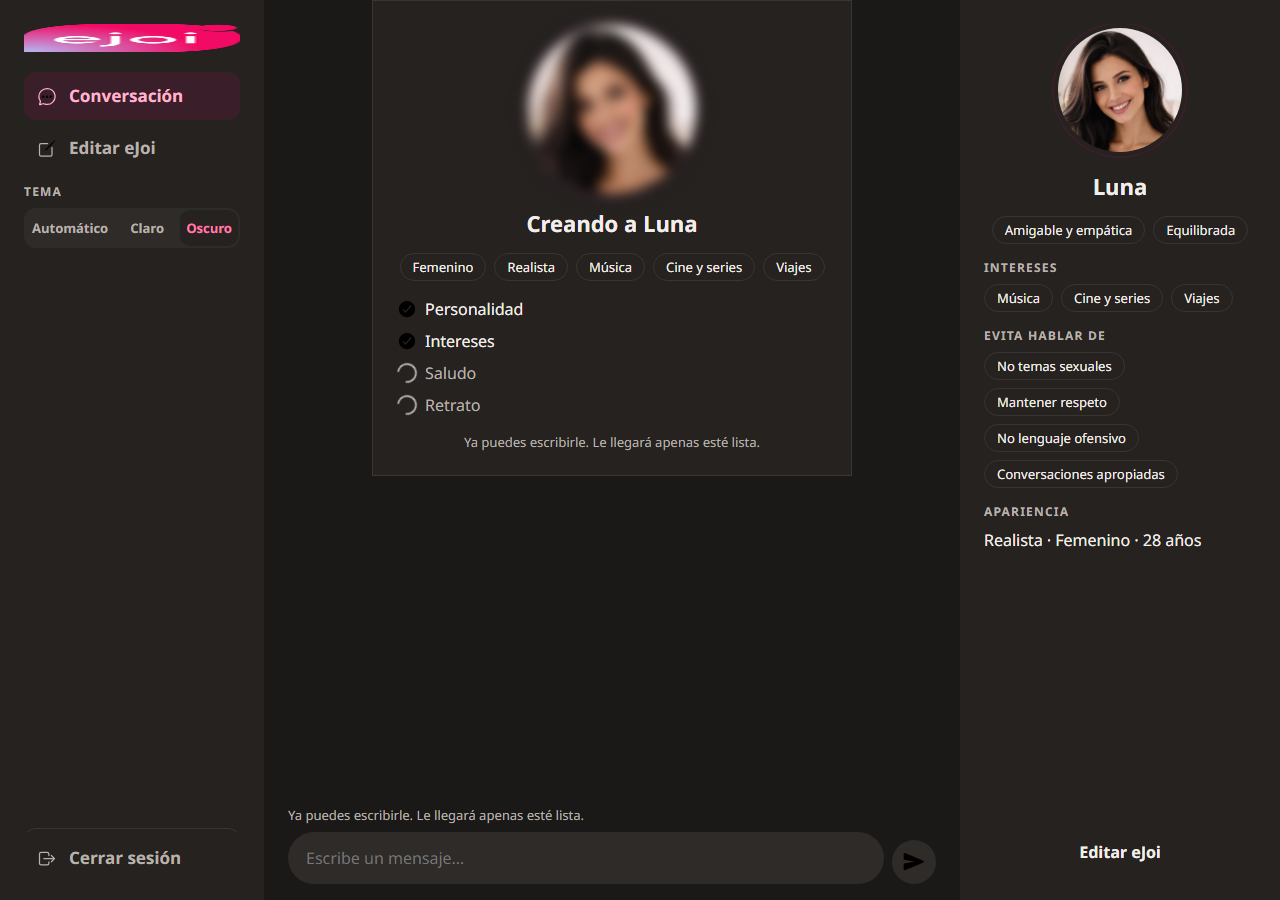
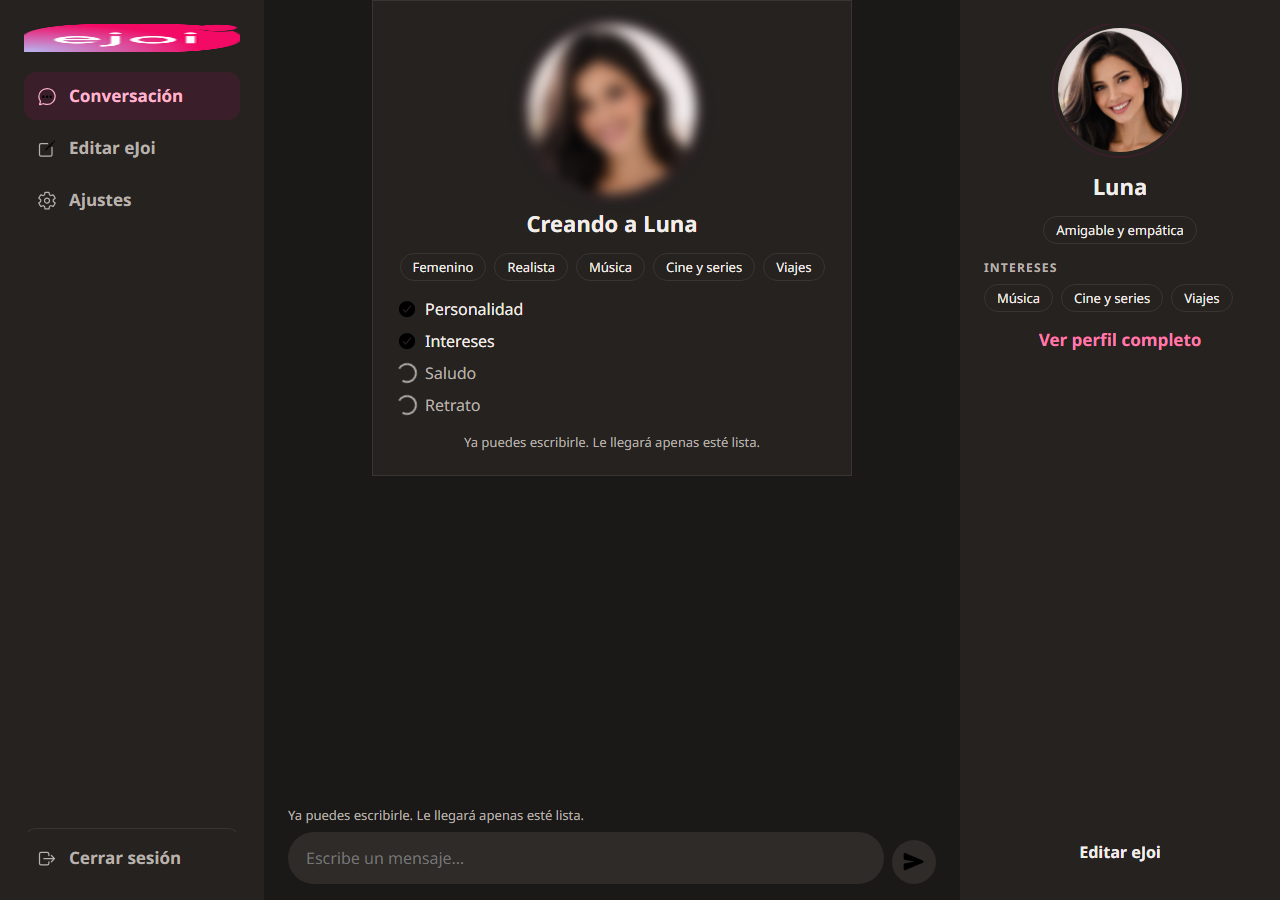
feat(web): chat con perfil resumido y ajustes en el menu (SCRUM-176)
Menú lateral con cuatro filas y tema en dialog de Ajustes; perfil con details.

Refs: SCRUM-104

diff --git a/src/features/chat/SideMenu.tsx b/src/features/chat/SideMenu.tsx
@@ -4,6 +4,7 @@ import { NavLink, useNavigate } from 'react-router';
 import { Logo } from '~/components/Logo';
 import { AppIcon } from '~/components/AppIcon';
 import { logoutWeb } from '~/features/auth/api/auth.api';
+import { useSectionDialog } from '~/features/edit/useSectionDialog';
 import { OptionGroup } from '~/layout/OptionGroup';
 import { type ThemePreference, useThemePreference } from '~/theme/theme';
 
@@ -19,6 +20,7 @@ export function SideMenu() {
   const { t } = useTranslation('web');
   const navigate = useNavigate();
   const { preference, setPreference } = useThemePreference();
+  const { dialogRef, open, close } = useSectionDialog();
 
   const logout = async () => {
     await logoutWeb();
@@ -47,34 +49,52 @@ export function SideMenu() {
         <AppIcon name="create-outline" />
         {t('menu.edit')}
       </NavLink>
-      <div className="chat-side-menu__theme">
-        <span id="chat-side-menu-theme-label" className="label chat-side-menu__theme-label">
-          {t('theme.label')}
-        </span>
-        <OptionGroup
-          mode="radio"
-          aria-labelledby="chat-side-menu-theme-label"
-          layout="inline"
-          className="seg chat-side-menu__seg"
-        >
-          {THEME_OPTIONS.map((opt) => (
-            <button
-              key={opt.id}
-              type="button"
-              role="radio"
-              className="seg__item"
-              aria-checked={preference === opt.id}
-              onClick={() => setPreference(opt.id)}
-            >
-              {t(opt.labelKey)}
-            </button>
-          ))}
-        </OptionGroup>
-      </div>
+      <button
+        type="button"
+        className="chat-side-menu__row"
+        data-testid="chat-settings-open"
+        onClick={(e) => open(e.currentTarget)}
+      >
+        <AppIcon name="settings-outline" />
+        {t('menu.settings')}
+      </button>
       <button type="button" className="chat-side-menu__row chat-side-menu__logout" onClick={() => void logout()}>
         <AppIcon name="log-out-outline" />
         {t('menu.logout')}
       </button>
+
+      <dialog ref={dialogRef} className="chat-settings-dialog" data-testid="chat-settings-dialog">
+        <h2 className="chat-settings-dialog__title">{t('menu.settings')}</h2>
+        <div className="chat-settings-dialog__body">
+          <span id="chat-settings-theme-label" className="label">
+            {t('theme.label')}
+          </span>
+          <OptionGroup
+            mode="radio"
+            aria-labelledby="chat-settings-theme-label"
+            layout="inline"
+            className="seg chat-settings-dialog__seg"
+          >
+            {THEME_OPTIONS.map((opt) => (
+              <button
+                key={opt.id}
+                type="button"
+                role="radio"
+                className="seg__item"
+                aria-checked={preference === opt.id}
+                onClick={() => setPreference(opt.id)}
+              >
+                {t(opt.labelKey)}
+              </button>
+            ))}
+          </OptionGroup>
+        </div>
+        <div className="chat-settings-dialog__actions">
+          <button type="button" className="btn btn--secondary btn--m" onClick={close}>
+            {t('edit.cancel')}
+          </button>
+        </div>
+      </dialog>
     </nav>
   );
 }

diff --git a/e2e/keyboard.spec.ts b/e2e/keyboard.spec.ts
@@ -232,4 +232,77 @@ test.describe('Teclado desktop (SCRUM-113)', () => {
     expect(box?.height).toBeGreaterThanOrEqual(44);
     expect(box?.width).toBeGreaterThanOrEqual(44);
   });
+
+  test('perfil completo se abre con teclado', async ({ page }) => {
+    await page.route('**/api/**', async (route) => {
+      const path = new URL(route.request().url()).pathname.replace(/^\/api/, '');
+      if (path.includes('/auth/refresh')) {
+        await route.fulfill({
+          status: 200,
+          contentType: 'application/json',
+          body: JSON.stringify({ accessToken: 'e2e-keyboard-profile' }),
+        });
+        return;
+      }
+      if (path.includes('/companion/me/creation')) {
+        await route.fulfill({
+          status: 200,
+          contentType: 'application/json',
+          body: JSON.stringify({
+            state: 'ready',
+            profile: { id: 'c1', name: 'Luna', visualStyle: 'realista' },
+            firstMessage: { id: 'm1', content: 'Hola' },
+          }),
+        });
+        return;
+      }
+      if (
+        path.includes('/companion/me/profile') ||
+        (path.includes('/companion/me') && route.request().method() === 'GET')
+      ) {
+        await route.fulfill({
+          status: 200,
+          contentType: 'application/json',
+          body: JSON.stringify({
+            id: 'c1',
+            name: 'Luna',
+            visualStyle: 'realista',
+            persona: 'Amigable y empática',
+            intensity: 'balanced',
+            interests: ['Música'],
+            boundaries: ['Política'],
+            gender: 'femenino',
+          }),
+        });
+        return;
+      }
+      if (path.includes('/chat/')) {
+        await route.fulfill({
+          status: 200,
+          contentType: 'application/json',
+          body: JSON.stringify({ messages: [], hasMore: false }),
+        });
+        return;
+      }
+      if (path.includes('/subscription/me')) {
+        await route.fulfill({
+          status: 200,
+          contentType: 'application/json',
+          body: JSON.stringify({ remainingMessages: 12, planLabel: 'basic' }),
+        });
+        return;
+      }
+      await route.fulfill({ status: 200, contentType: 'application/json', body: '{}' });
+    });
+
+    await page.goto('/chat');
+    await page.getByTestId('chat-profile-card').waitFor();
+    await expect(page.getByText('Política')).toBeHidden();
+
+    const summary = page.getByTestId('chat-profile-more').locator('summary');
+    await summary.focus();
+    await page.keyboard.press('Enter');
+    await expect(page.getByText('Política')).toBeVisible();
+    await expect(page.getByText(/Realista/)).toBeVisible();
+  });
 });

diff --git a/src/features/chat/ProfilePanel.tsx b/src/features/chat/ProfilePanel.tsx
@@ -113,6 +113,8 @@ export function ProfilePanel({
     appearanceParts.push(hairKey ? t(hairKey) : view.hairColor);
   }
 
+  const hasProfileMore = view.boundaries.length > 0 || appearanceParts.length > 0;
+
   return (
     <div className="chat-profile-panel" data-testid="chat-profile-card">
       {profileLoading ? (
@@ -182,24 +184,28 @@ export function ProfilePanel({
             </section>
           ) : null}
 
-          {view.boundaries.length > 0 ? (
-            <section className="chat-profile-panel__section">
-              <h3 className="label chat-profile-panel__label">{t('profile.avoids')}</h3>
-              <ul className="chat-profile-panel__pills">
-                {view.boundaries.map((boundary) => (
-                  <li key={boundary}>
-                    <span className="pill">{boundary}</span>
-                  </li>
-                ))}
-              </ul>
-            </section>
-          ) : null}
-
-          {appearanceParts.length > 0 ? (
-            <section className="chat-profile-panel__section">
-              <h3 className="label chat-profile-panel__label">{t('chat.profile_appearance')}</h3>
-              <p className="chat-profile-panel__text">{appearanceParts.join(' · ')}</p>
-            </section>
+          {hasProfileMore ? (
+            <details className="chat-profile-panel__more" data-testid="chat-profile-more">
+              <summary className="chat-profile-panel__more-summary">{t('chat.profile_more')}</summary>
+              {view.boundaries.length > 0 ? (
+                <section className="chat-profile-panel__section">
+                  <h3 className="label chat-profile-panel__label">{t('profile.avoids')}</h3>
+                  <ul className="chat-profile-panel__pills">
+                    {view.boundaries.map((boundary) => (
+                      <li key={boundary}>
+                        <span className="pill">{boundary}</span>
+                      </li>
+                    ))}
+                  </ul>
+                </section>
+              ) : null}
+              {appearanceParts.length > 0 ? (
+                <section className="chat-profile-panel__section">
+                  <h3 className="label chat-profile-panel__label">{t('chat.profile_appearance')}</h3>
+                  <p className="chat-profile-panel__text">{appearanceParts.join(' · ')}</p>
+                </section>
+              ) : null}
+            </details>
           ) : null}
 
           {onRetryPortrait ? (

diff --git a/src/features/chat/SideMenu.css b/src/features/chat/SideMenu.css
@@ -42,28 +42,6 @@
   font-weight: 700;
 }
 
-.chat-side-menu__theme {
-  display: flex;
-  flex-direction: column;
-  gap: var(--space-2);
-  margin-top: var(--space-2);
-}
-
-.chat-side-menu__theme-label {
-  margin: 0;
-}
-
-.chat-side-menu__seg.seg {
-  min-height: 40px;
-  padding: 2px;
-}
-
-.chat-side-menu__seg .seg__item {
-  min-height: 36px;
-  font-size: 13px;
-  line-height: 18px;
-}
-
 .chat-side-menu__logout {
   margin-top: auto;
   border-top: 1px solid var(--c-line);
@@ -74,4 +52,39 @@
   .chat-side-menu__row:not(.chat-side-menu__row--active):hover {
     background: var(--state-hover-bg);
   }
+}
+
+.chat-settings-dialog {
+  width: min(420px, calc(100vw - var(--space-8)));
+  padding: var(--space-6);
+  border: 1px solid var(--c-line);
+  border-radius: var(--radius-card);
+  background: var(--c-surface);
+  color: var(--c-ink);
+}
+
+.chat-settings-dialog::backdrop {
+  background: color-mix(in srgb, var(--c-ink) 40%, transparent);
+}
+
+.chat-settings-dialog__title {
+  margin: 0 0 var(--space-4);
+  font: var(--font-title2);
+}
+
+.chat-settings-dialog__body {
+  display: flex;
+  flex-direction: column;
+  gap: var(--space-3);
+  margin-bottom: var(--space-4);
+}
+
+.chat-settings-dialog__seg.seg {
+  min-height: 40px;
+  padding: 2px;
+}
+
+.chat-settings-dialog__actions {
+  display: flex;
+  justify-content: flex-end;
 }

diff --git a/src/features/chat/ProfilePanel.test.tsx b/src/features/chat/ProfilePanel.test.tsx
@@ -34,6 +34,35 @@ describe('ProfilePanel', () => {
     expect(screen.getByText('Amigable y empática')).toBeTruthy();
     expect(screen.getByText('Equilibrada')).toBeTruthy();
     expect(screen.queryByTestId('chat-quota')).toBeNull();
+    const more = screen.getByTestId('chat-profile-more') as HTMLDetailsElement;
+    expect(more.open).toBe(false);
     expect(screen.getByRole('link', { name: 'Editar eJoi' }).getAttribute('href')).toBe('/chat/editar');
+  });
+
+  it('despliega límites y apariencia en Ver perfil completo', () => {
+    render(
+      <MemoryRouter>
+        <ProfilePanel
+          profile={{
+            id: 'c1',
+            name: 'Luna',
+            persona: 'Amigable y empática',
+            intensity: 'balanced',
+            interests: ['Música'],
+            boundaries: ['Política'],
+            visualStyle: 'realista',
+            gender: 'femenino',
+          }}
+          showOnline
+        />
+      </MemoryRouter>,
+    );
+
+    const more = screen.getByTestId('chat-profile-more') as HTMLDetailsElement;
+    expect(more.open).toBe(false);
+    screen.getByText('Ver perfil completo').click();
+    expect(more.open).toBe(true);
+    expect(screen.getByText('Política')).toBeTruthy();
+    expect(screen.getByText(/Realista/)).toBeTruthy();
   });
 });

diff --git a/e2e/theme.spec.ts b/e2e/theme.spec.ts
@@ -177,6 +177,26 @@ test.describe('Tema claro/oscuro (SCRUM-112)', () => {
     await expect(page.locator('html')).toHaveAttribute('data-theme', 'dark');
   });
 
+  test('tema se cambia desde Ajustes en el chat', async ({ page }) => {
+    await mockApi(page, {
+      state: 'ready',
+      profile: { name: 'Luna', visualStyle: 'realista' },
+      firstMessage: { id: 'm1', content: 'Hola' },
+    });
+    await page.goto('/chat');
+    await page.getByTestId('chat-read').waitFor();
+
+    const settings = page.getByTestId('chat-settings-open');
+    await settings.click();
+    const dialog = page.getByTestId('chat-settings-dialog');
+    await expect(dialog).toBeVisible();
+    await dialog.getByRole('radio', { name: 'Oscuro' }).click();
+    await expect(page.locator('html')).toHaveAttribute('data-theme', 'dark');
+    await dialog.getByRole('button', { name: 'Cancelar' }).click();
+    await expect(dialog).toBeHidden();
+    await expect(settings).toBeFocused();
+  });
+
   test('hover y foco distinguibles en ambos temas', async ({ page }) => {
     for (const theme of ['light', 'dark'] as const) {
       await page.goto('/');

diff --git a/src/features/chat/ProfilePanel.css b/src/features/chat/ProfilePanel.css
@@ -50,6 +50,26 @@
   justify-content: center;
 }
 
+.chat-profile-panel__more {
+  width: 100%;
+  margin: 0;
+}
+
+.chat-profile-panel__more-summary {
+  cursor: pointer;
+  font: var(--font-button);
+  color: var(--c-brand-text);
+  list-style: none;
+}
+
+.chat-profile-panel__more-summary::-webkit-details-marker {
+  display: none;
+}
+
+.chat-profile-panel__more[open] .chat-profile-panel__more-summary {
+  margin-bottom: var(--space-3);
+}
+
 .chat-profile-panel__edit {
   width: 100%;
   margin-top: auto;
